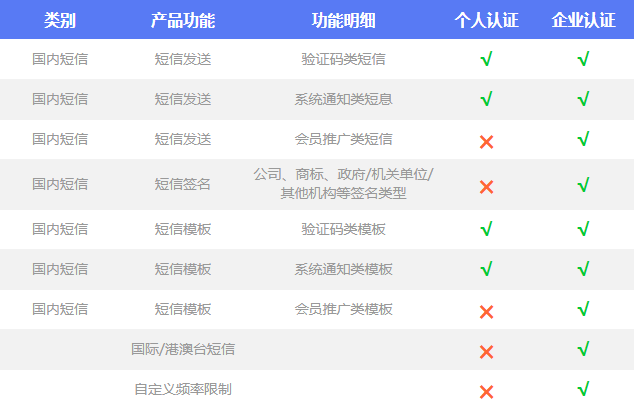
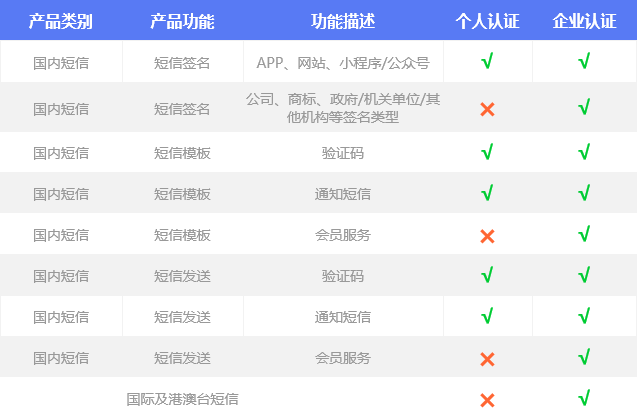
add the release doc and process

diff --git a/introduction/2003.md b/introduction/2003.md
@@ -4,8 +4,8 @@
 
 ## 短信类别
 
-根据短信的应用场景、用途不同，区分为验证码短信、系统通知短信、会员推广短信；
-![](../images/guide/短信服务usms_短信类别_190513.png)
+根据短信的应用场景、用途不同，区分为验证码、通知短信、会员服务短信；
+![](../images/guide/短信服务usms_短信类别_210204.png)
 
 ## 短信内容
 
@@ -40,14 +40,13 @@
 
 短信模板根据短信接收人所属地域、短信类别的不同，区分为如下几类：
 
-| 发送地区        | 短信模板类别 | **使用说明**       |
-| --------------- | ------------ | ------------------ |
-| 国内短信        | 验证码短信   |                    |
-| 国内短信        | 系统通知短信 |                    |
-| 国内短信        | 会员推广短信 | 企业认证用户可申请 |
-| 国际/港澳台短信 | 验证码短信   | 企业认证用户可申请 |
-| 国际/港澳台短信 | 系统通知短信 | 企业认证用户可申请 |
-| 国际/港澳台短信 | 会员推广短信 | 企业认证用户可申请 |
+| 发送地区         | 短信类别 | **使用说明**       |
+| ---------------- | -------- | ------------------ |
+| 国内短信         | 验证码   |                    |
+| 国内短信         | 通知短信 |                    |
+| 国内短信         | 会员服务 | 企业认证用户可申请 |
+| 国际及港澳台短信 | 验证码   | 企业认证用户可申请 |
+| 国际及港澳台短信 | 通知短信 | 企业认证用户可申请 |
+| 国际及港澳台短信 | 会员服务 | 企业认证用户可申请 |
 
-短信模板需要审核通过后才可使用，短信模板审核标准详见
-[短信模板审核标准](/usms/introduction/2005/2105) 。
+短信模板需要审核通过后才可使用，短信模板审核标准详见 [短信模板审核标准](/usms/introduction/2005/2105) 。

diff --git a/introduction/2009.md b/introduction/2009.md
@@ -6,7 +6,8 @@
 
 | 更新时间   | 产品版本 | 更新类型 | 更新内容                                                     |
 | ---------- | -------- | -------- | ------------------------------------------------------------ |
-| 2020.04.23 | v1.1.7   | 产品功能 | 1.新增 国内、国际/港澳台短信发送数据统计                     |
+| 2021.02.04 | v1.1.9   | 产品功能 | 1.新增：支持状态报告及上行消息接收地址配置<br />2.优化：短信发送后数据查询&统计体验优化<br />3.优化：支持国际及港澳台短信独立申请短信签名、模板 |
+| 2020.04.23 | v1.1.7   | 产品功能 | 1.新增：支持国内、国际及港澳台短信发送数据统计查询           |
 | 2019.08.15 | v1.1.5   | 产品功能 | 1.新增：支持web端群发功能(支持定时任务)<br>2.新增：提供SDK及开发指南Tab页<br>3.新增：发送接口支持自定义扩展码（需先提交工单申请）<br>4.修复：批量发送短信时含有非法号码直接拦截问题 |
 | 2019.06.20 | v1.1.2   | 产品功能 | 1. 新增：国内、国际/港澳台短信支持购买固定套餐包功能<br>2. 优化：短信签名、短信模板等菜单切换用户体验优化 |
 | 2019.06.04 | v1.1.1   | 产品优化 | 1. 修复：部分账号限制发送国际/港澳台短信问题<br>2. 新增：新版短信发送SDK，支持Java |

diff --git a/introduction/2001.md b/introduction/2001.md
@@ -8,16 +8,16 @@
 
 USMS短信服务（Short Message Service）是UCloud为用户提供的一种云通信服务，帮助广大开发者便捷、灵活接入高质量的短信服务。
 
-支持国内短信、国际/港澳台短信，其中，国际/港澳台短信覆盖全球200+国家及地区。常见应用场景：验证码短信（账号注册、登录验证、找回密码、安全提醒等场景），系统通知短信（故障告警、状态提醒、价格调整等场景），会员推广短信（促销活动通知、业务推广、新品上线、会员关怀等场景）。
+支持国内短信、国际及港澳台短信，其中，国际及港澳台短信覆盖全球200+国家及地区。常见应用场景：验证码短信（账号注册、登录验证、找回密码、安全提醒等场景），系统通知短信（故障告警、状态提醒、价格调整等场景），会员服务短信（活动通知、业务促销、新品上线、会员关怀等场景）。
 
 
 
 ## 产品功能
 
-![](../images/短信服务usms_产品功能描述_190513.png)
+![](../images/短信服务usms_产品功能描述.png)
 
 
 
 ## 使用流程
 
-![](../images/短信服务usms_使用流程概述_190514.png)
+![](../images/短信服务usms_使用流程概述.png)

diff --git a/introduction/2005/2103.md b/introduction/2005/2103.md
@@ -36,5 +36,4 @@
 
 ## 其他说明
 
-1、国际短信涉及到部分审核材料有差异，可提交工单或直接联系
-[技术支持](https://www.ucloud.cn/site/service.html)。
+1、**国际及港澳台短信**：申请前请先确认您账号认证企业具备计划覆盖的目标国际及地区的准入发送政策要求，各目标国际及地区的审核材料可联系 [技术支持](https://www.ucloud.cn/site/service.html) 进行确认。
